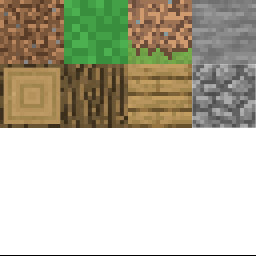
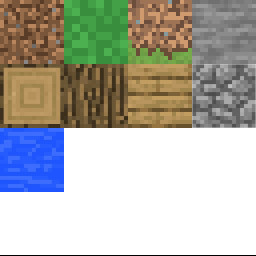
added water and terrain generation, have to fix chunk border faces

Changed region(s): [[0.0, 0.5, 0.25, 0.75]]

diff --git a/src/chunk.cpp b/src/chunk.cpp
@@ -1,5 +1,6 @@
 #include "chunk.h"
 #include "world.h"
+#include "stb_perlin.h"
 
 const float faceVertices[6][6][3] = {
     // Back face (z-)
@@ -53,6 +54,7 @@ std::unordered_map<BlockType, BlockTexture> blockTextures = {
     { Log, { 5, 4, 4 } },
     { Plank, { 6, 6, 6 } },
     { Cobblestone, { 7, 7, 7 } },
+    { Water, {8, 8, 8} },
 };
 
 std::vector<float> Chunk::buildMesh() {
@@ -133,11 +135,54 @@ void Chunk::buildAndUploadMesh() {
 }
 
 void Chunk::initializeChunk() {
+    float baseFrequency = 0.07f;
+    float persistence = .3f;
+    int octaves = 5;
+    int maxTerrainHeight = CHUNK_HEIGHT - 1;
+    float heightScale = 40.0f;
+    float baseHeight = 30.0f;
+    int WATER_LEVEL = 30;
 
     for (int x = 0; x < CHUNK_WIDTH; x++) {
         for (int z = 0; z < CHUNK_DEPTH; z++) {
+            int worldX = chunkPos.x * CHUNK_WIDTH + x;
+            int worldZ = chunkPos.y * CHUNK_DEPTH + z;
+
+            float total = 0;
+            float frequency = baseFrequency;
+            float amplitude = 1.0f;
+            float maxAmplitude = 0;
+
+            for (int i = 0; i < octaves; i++) {
+                float noise = stb_perlin_noise3(worldX * frequency, worldZ * frequency, 0.0f, 0, 0, 0);
+                total += noise * amplitude;
+                maxAmplitude += amplitude;
+                frequency *= 2.0f;
+                amplitude *= persistence;
+            }
+
+            total /= maxAmplitude;
+
+            float terrainHeightF = baseHeight + total * heightScale;
+            int terrainHeight = static_cast<int>(glm::clamp(terrainHeightF, 1.0f, (float)maxTerrainHeight));
+
             for (int y = 0; y < CHUNK_HEIGHT; y++) {
-                blocks[x][y][z] = Grass;
+                if (terrainHeight > 60 && terrainHeight < 64) { terrainHeight = 60; }
+                if (y > terrainHeight) {
+                    blocks[x][y][z] = Air;
+                } else if (y == terrainHeight) {
+                    blocks[x][y][z] = Grass;
+                } else if (y >= terrainHeight - 3) {
+                    blocks[x][y][z] = Dirt;
+                } else {
+                    blocks[x][y][z] = Stone;
+                }
+            }
+            // filling water
+            for (int y = 0; y <= WATER_LEVEL; y++) {
+                if (blocks[x][y][z] == Air && (getBlock(x, y-1, z) != Air || getBlock(x, y-1, z) == Water)) {
+                    blocks[x][y][z] = Water;
+                }
             }
         }
     }

diff --git a/src/world.cpp b/src/world.cpp
@@ -64,18 +64,18 @@ void World::updateChunksAroundPlayer() {
 
             if (chunks.find(pos) == chunks.end()) {
                 chunks[pos] = std::make_unique<Chunk>(this, pos.x, pos.y);
-                glm::ivec2 surrouding = pos + glm::ivec2(0, 1);
-                auto neighborIt = chunks.find(surrouding);
-                if (neighborIt != chunks.end()) { neighborIt->second->setDirty(true); }
-                surrouding = pos + glm::ivec2(0, -1);
-                neighborIt = chunks.find(surrouding);
-                if (neighborIt != chunks.end()) { neighborIt->second->setDirty(true); }
-                surrouding = pos + glm::ivec2(1, 0);
-                neighborIt = chunks.find(surrouding);
-                if (neighborIt != chunks.end()) { neighborIt->second->setDirty(true); }
-                surrouding = pos + glm::ivec2(-1, 0);
-                neighborIt = chunks.find(surrouding);
-                if (neighborIt != chunks.end()) { neighborIt->second->setDirty(true); }
+                // glm::ivec2 surrouding = pos + glm::ivec2(0, 1);
+                // auto neighborIt = chunks.find(surrouding);
+                // if (neighborIt != chunks.end()) { neighborIt->second->setDirty(true); }
+                // surrouding = pos + glm::ivec2(0, -1);
+                // neighborIt = chunks.find(surrouding);
+                // if (neighborIt != chunks.end()) { neighborIt->second->setDirty(true); }
+                // surrouding = pos + glm::ivec2(1, 0);
+                // neighborIt = chunks.find(surrouding);
+                // if (neighborIt != chunks.end()) { neighborIt->second->setDirty(true); }
+                // surrouding = pos + glm::ivec2(-1, 0);
+                // neighborIt = chunks.find(surrouding);
+                // if (neighborIt != chunks.end()) { neighborIt->second->setDirty(true); }
             }
         }
     }
@@ -85,6 +85,18 @@ void World::updateChunksAroundPlayer() {
             it = chunks.erase(it);
         } else {
             ++it;
+        }
+    }
+
+    for (const glm::ivec2& pos : neededChunks) {
+        bool hasAllNeighbors =
+            chunks.find(pos + glm::ivec2( 1,  0)) != chunks.end() &&
+            chunks.find(pos + glm::ivec2(-1,  0)) != chunks.end() &&
+            chunks.find(pos + glm::ivec2( 0,  1)) != chunks.end() &&
+            chunks.find(pos + glm::ivec2( 0, -1)) != chunks.end();
+
+        if (hasAllNeighbors) {
+            chunks[pos]->setDirty(true);
         }
     }
 }

diff --git a/src/main.cpp b/src/main.cpp
@@ -14,7 +14,7 @@
 
 #define SHADER_DIR "shaders/"
 
-Camera camera(glm::vec3(0.f, 70.f, 20.f));
+Camera camera(glm::vec3(0.f, 30.f, 20.f));
 float lastX = 400, lastY = 400;
 bool firstMouse = true;
 float deltaTime = 0.0f;
@@ -188,8 +188,8 @@ int main() {
 
         shader.set_vec3("cameraPos", camera.position);
         shader.set_vec3("fogColor", glm::vec3(0.7f, 0.7f, 0.8f));
-        shader.set_float("fogStart", 10.f);
-        shader.set_float("fogEnd", 40.f);
+        shader.set_float("fogStart", 40.f);
+        shader.set_float("fogEnd", 100.f);
 
         world.setPlayerPos(camera.position);
         world.updateChunks();

diff --git a/include/block.h b/include/block.h
@@ -9,7 +9,8 @@ enum BlockType {
     Stone,
     Log,
     Plank,
-    Cobblestone
+    Cobblestone,
+    Water
 };
 
 struct BlockTexture {

diff --git a/readme.md b/readme.md
@@ -18,9 +18,9 @@
 
 - [x] Skybox
 
-### TODO
+- [x] procedurally generate terrain using simplex or perlin noise
 
-- [ ] procedurally generate terrain using simplex or perlin noise
+### TODO
 
 - [ ] Simple lighting (blinn phong)
 
